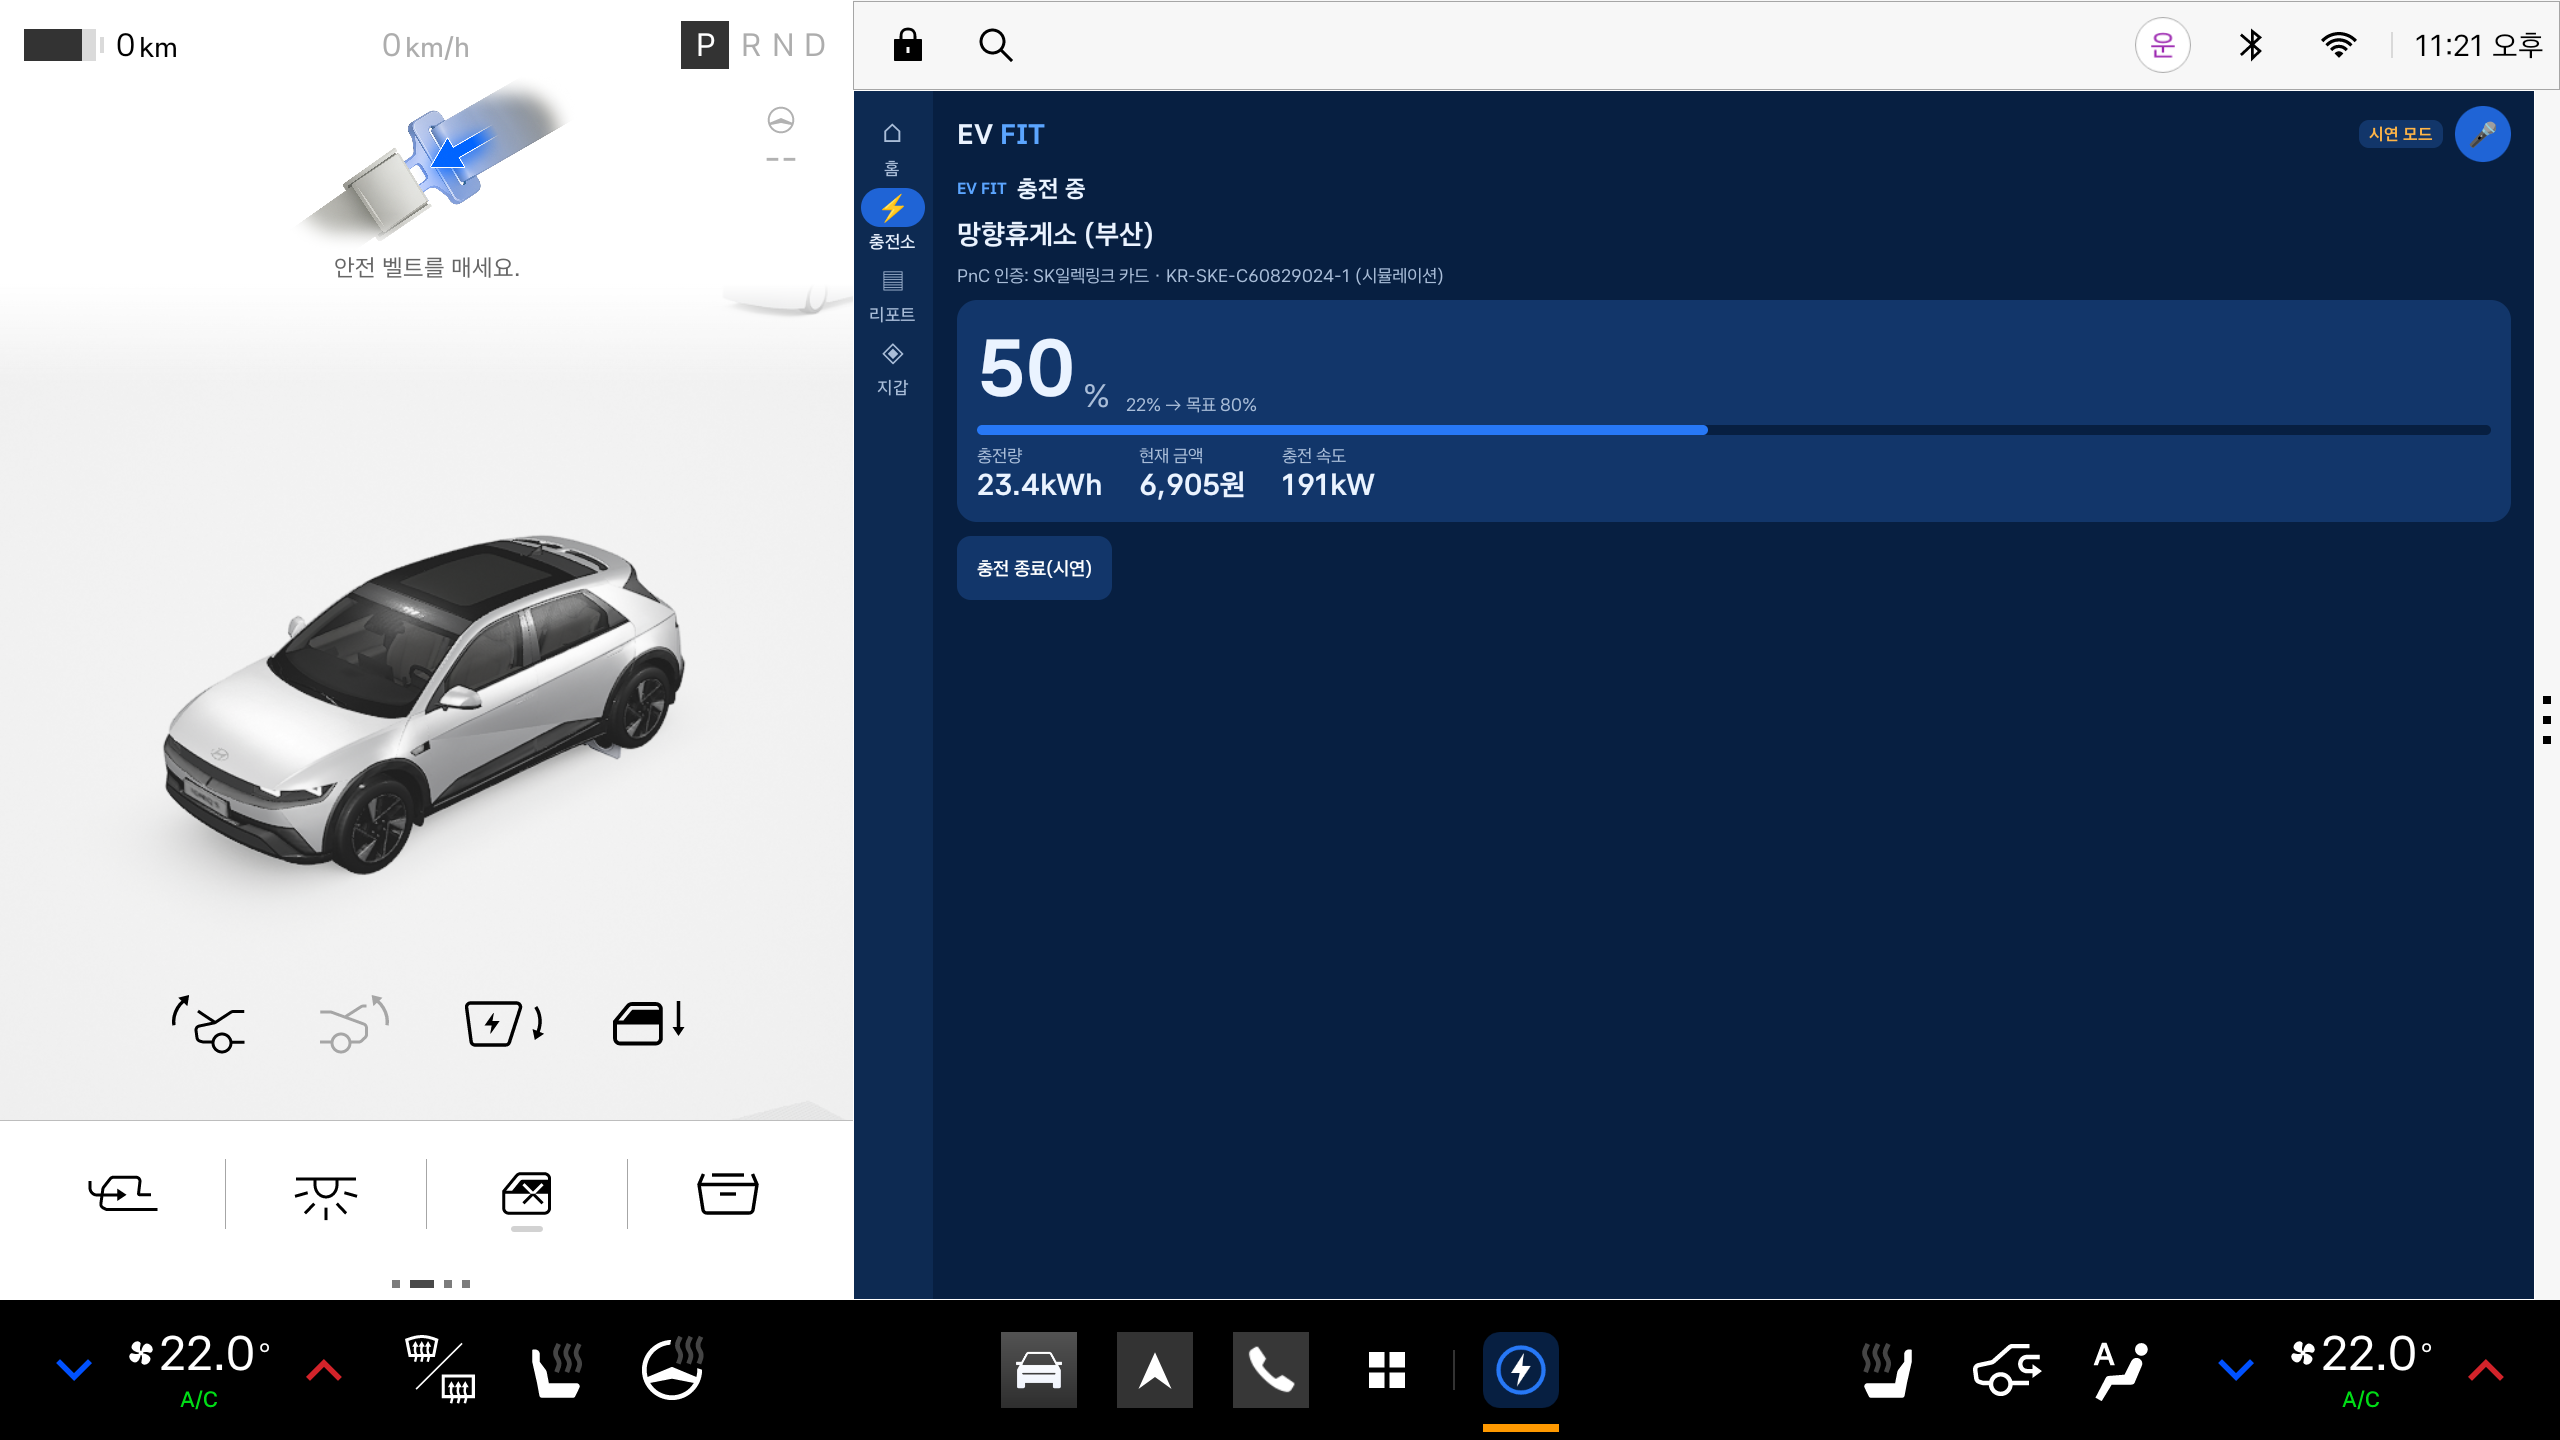
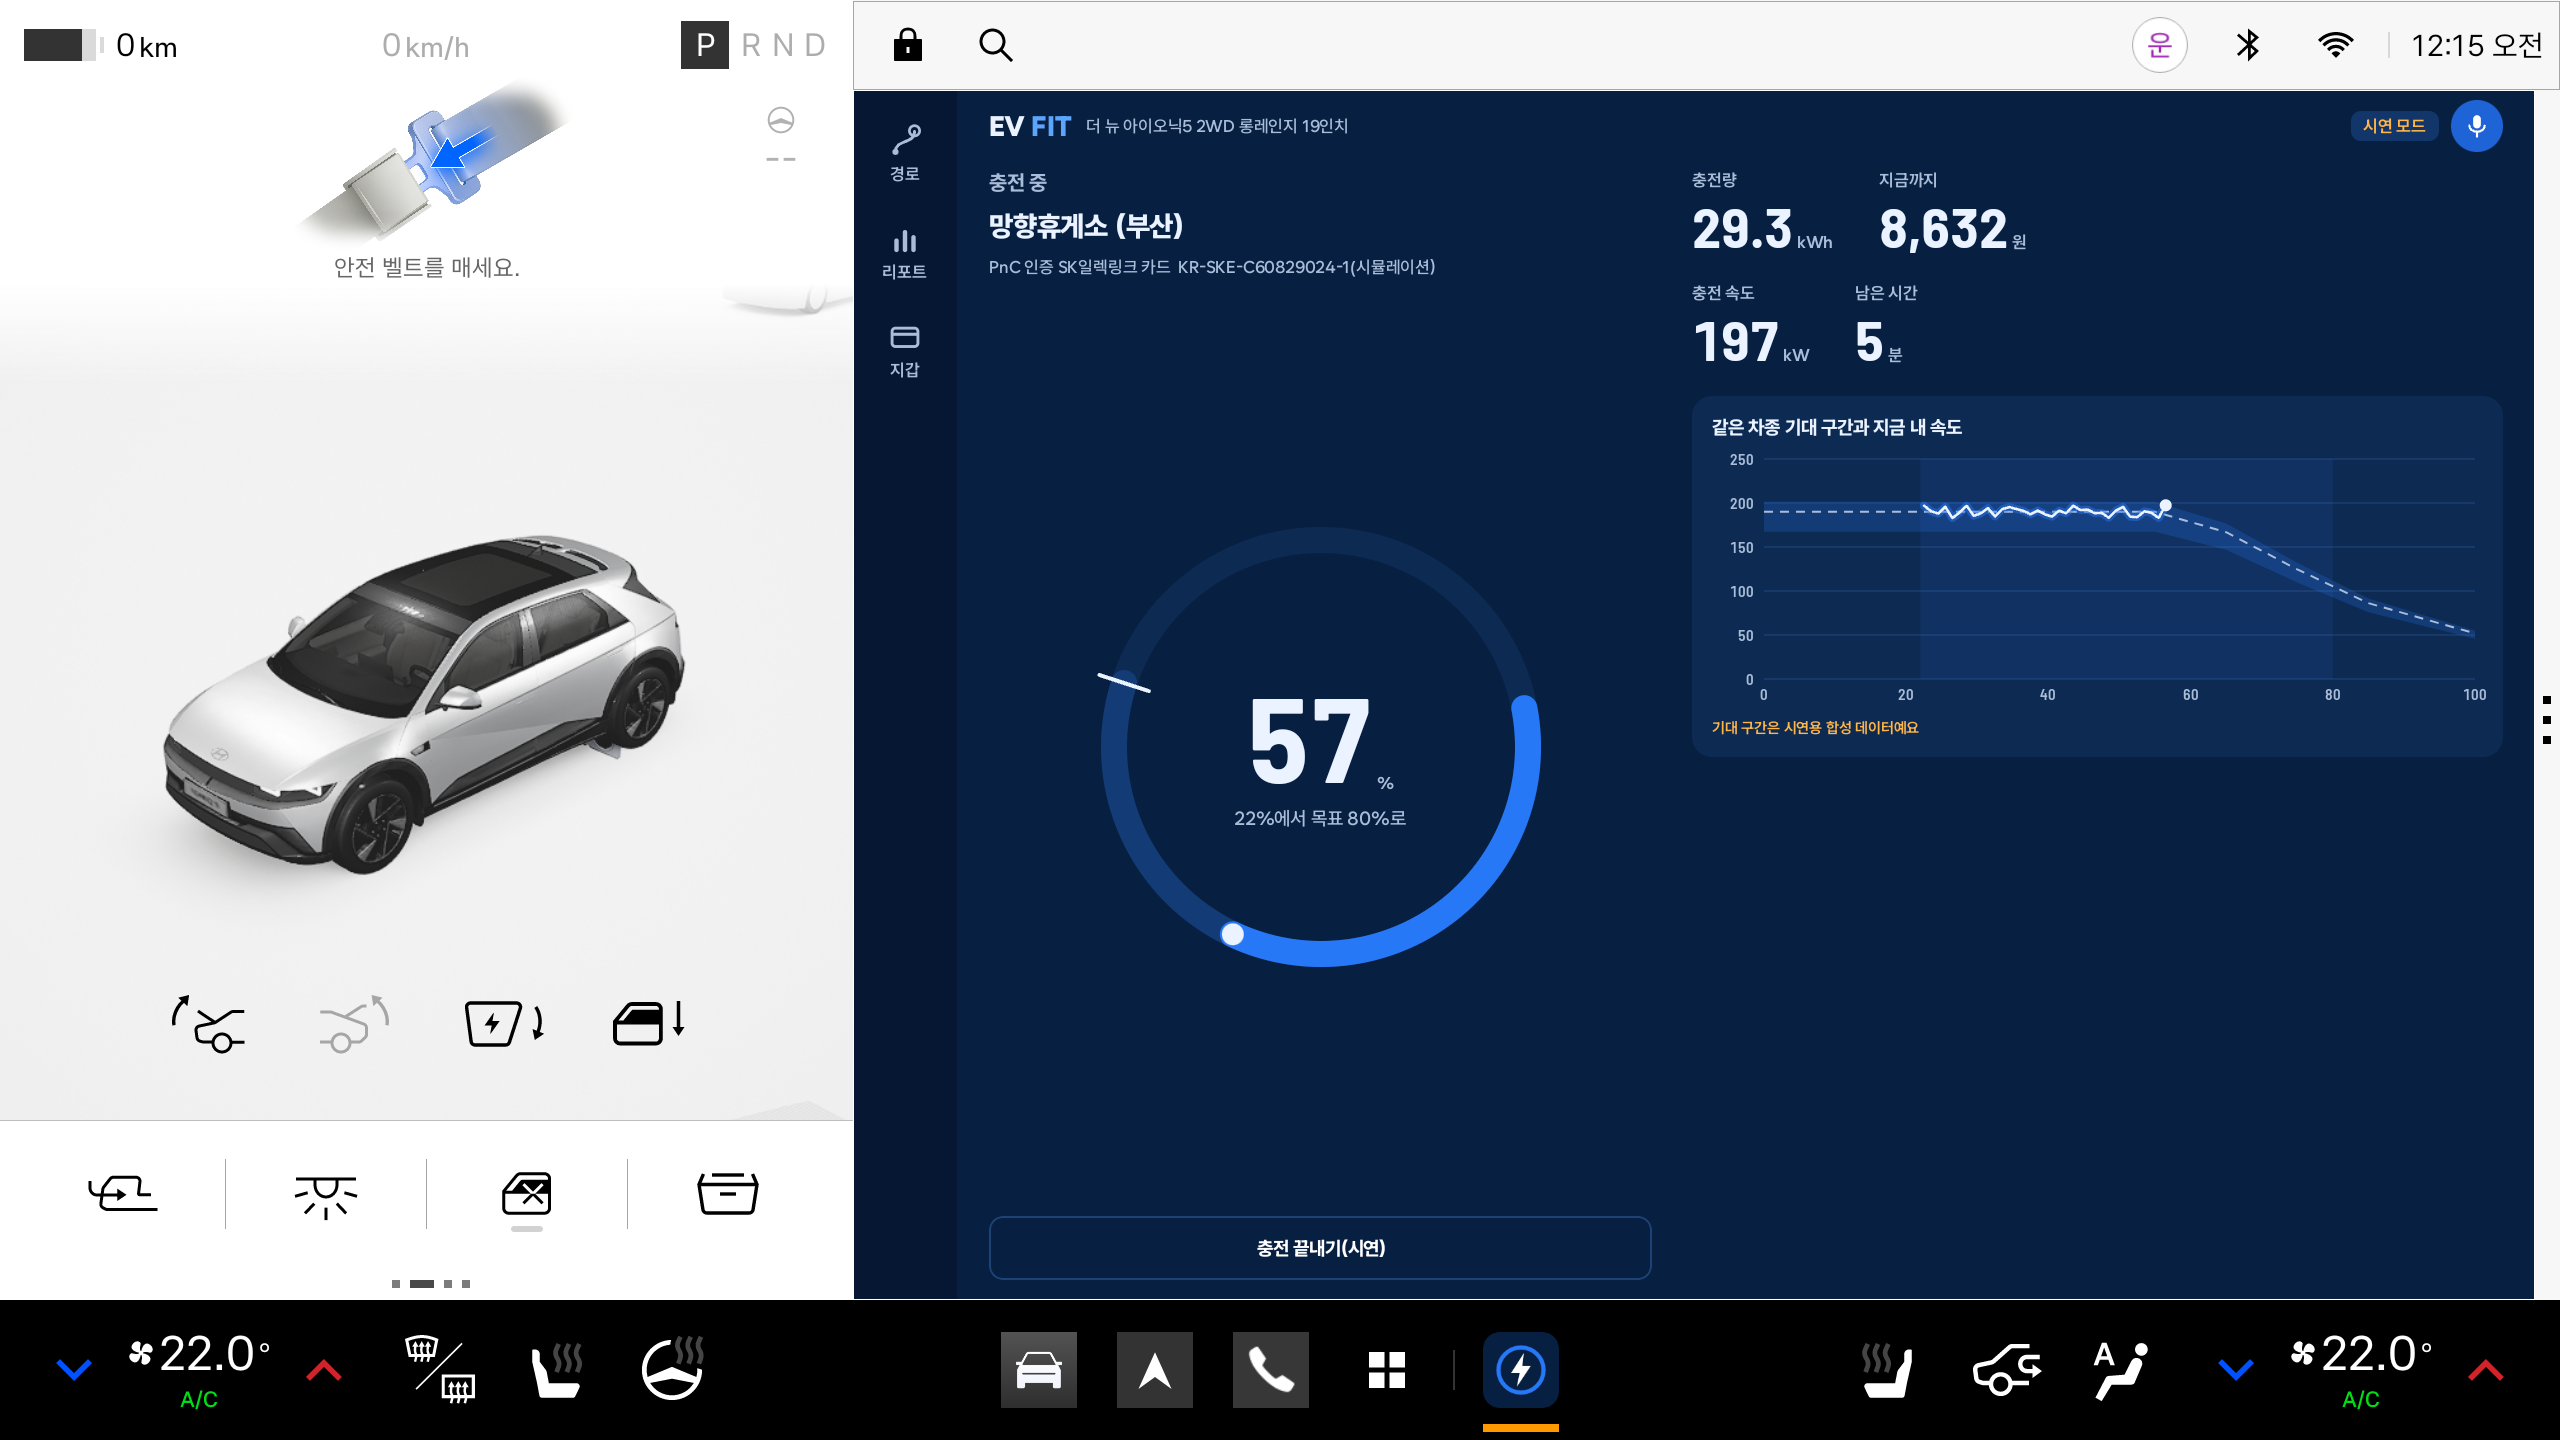
새 화면 캡처 10장과 README·시연 스크립트를 v2 흐름으로 갱신
경로 지도(FIT 추천·경로 우선·최저가)·상세·충전 준비·충전 중·리포트 3종·지갑을 캡처하고,
README에 회랑 추천 설명, 시연 순서, 지도·경로선·글꼴 출처와 추정 공식을 적는다.

diff --git a/README.md b/README.md
@@ -17,20 +17,20 @@
 | 기능 | 내용 |
 |---|---|
 | **FIT Price** | 환경부 공시 요금 매트릭스(회원가·로밍가)와 구독 약정 잔량·고속도로 적용 여부를 반영해 충전소마다 결제 계정별 예상 요금을 계산하고 가장 싼 계정을 고른다 |
-| **FIT Route** | 내비 경로상 충전 정차·목적지 주변·내 주변 급속 충전소를 FIT 점수(요금·시간·신뢰도)로 추천하고, 고른 충전소를 내비 경유지로 넘긴다 |
-| **FIT Insight** | 충전 중 차량 SOC 변화로 잰 내 충전 속도를 동일 차종 기대 구간과 SOC 구간별로 비교하는 리포트, 동일 차량 리포트, 이번 달 기록 |
+| **FIT Route** | 지도에 이번 경로를 회랑으로 그리고, 경로 옆 5km 안 충전소 중 남은 배터리로 닿는 곳을 탭 기준(FIT 추천·경로 우선·최저가·빠른 충전)으로 골라 ①②③으로 표시한다. 진행 방향 휴게소는 우회 0분, 반대 방향 휴게소는 뺀다. 고른 충전소를 내비 경유지로 넘긴다 |
+| **FIT Insight** | 충전 중 차량 SOC 변화로 잰 내 충전 곡선을 같은 차종 기대 구간(SOC×kW) 위에 겹치고, 구간별 차이·평균 속도·걸린 시간·결제 수단별 영수증을 비교하는 리포트, 같은 차종 회원 속도 분포, 이번 달 지출·절약·구독 약정 |
 | 충전 준비 | 도착 전 결제 계정 확정, PnC 계약 전환(시뮬레이션), 충전구 열기, 목표 충전량 설정, 충전 전 확인 안내 |
 | 음성 | 다음 충전·충전 준비·완료 음성 안내, "가장 싼 충전소" 같은 음성 명령 |
 
 ## 화면 (Pleos Connect Emulator v2.1.0, 시연 모드)
 
-| 다음 충전 — 내 결제 계정으로 예상 요금 | 충전소 비교 — FIT 추천 순 |
+| 경로 지도 — FIT 추천 | 경로 우선 탭 — 경로 위 휴게소부터 |
 |---|---|
-| ![다음 충전](docs/screenshots/02_next_stop.png) | ![충전소 비교](docs/screenshots/03_finder.png) |
-| **충전소 상세 — 결제 수단별 요금** | **충전 리포트 — 동일 차종 기대 속도와 비교** |
-| ![충전소 상세](docs/screenshots/04_detail.png) | ![충전 리포트](docs/screenshots/07_report_session.png) |
+| ![FIT 추천](docs/screenshots/01_route_fit.png) | ![경로 우선](docs/screenshots/02_route_onroute.png) |
+| **충전 리포트 — 같은 차종 기대 구간 위 내 충전 곡선** | **충전 중 — SOC 링과 실시간 곡선** |
+| ![충전 리포트](docs/screenshots/07_report_session.png) | ![충전 중](docs/screenshots/06_charging.png) |
 
-전체 9장(홈·충전 준비·충전 중·동일 차량·지갑 포함)은 `docs/screenshots/`에 있습니다. `bash tools/demo_flow.sh`로 같은 흐름을 다시 캡처할 수 있습니다.
+전체 10장(최저가 탭·상세·충전 준비·같은 차종·이번 달·지갑 포함)은 `docs/screenshots/`에 있습니다. `bash tools/demo_flow.sh`로 같은 흐름을 다시 캡처할 수 있습니다.
 
 ## 실행 방법
 
@@ -48,12 +48,12 @@
    adb install -r apk/<APK 파일명>.apk
    adb shell am start -n com.ian.evfit/.MainActivity
    ```
-3. **시연 모드(처음 실행 시 켜져 있음)** — 홈에서 순서대로 누릅니다.
-   1. **[시연 시작]**: 서울 → 정부대전청사 경로, 내비 계획 충전 정차 "망향휴게소 (부산)"
-   2. 다음 충전 카드 확인: SK일렉링크 카드(구독 마스터 295원/kWh)로 예상 14,304원, 환경부 카드 대비 4,757원 절약, 같은 휴게소 SK시그넷 충전기는 환경부 카드만 가능
-   3. **[다른 충전소 비교]**: FIT 추천 순 목록(`✓ 최적 FIT`, 경로 추가 시간, 충전 시간)
-   4. **[도착(시연)]** → 충전 준비(PnC 계약 전환·충전구 열기·목표 80%)
-   5. **[충전 시작(시연)]** → 약 15~25초 재생(실제 약 17분을 60배 압축) 후 리포트 자동 진입
+3. **시연 모드(처음 실행 시 켜져 있음)** — 경로 화면에서 순서대로 누릅니다.
+   1. 지도 오른쪽 위 **[시연 시작]**: 양재 → 정부대전청사 경로(156km)를 주행 중, 40km 지점에서 SOC 30%(주행 가능 92km). 내비 계획 정차는 망향휴게소(부산), 도착 예상 22%
+   2. 탭 **[FIT 추천] [경로 우선] [최저가] [빠른 충전]**: 지도 ①②③과 오른쪽 목록이 기준에 따라 바뀝니다. 금액은 모두 같은 충전량(48.5kWh, 22%→80%) 기준
+   3. **[경로 우선]** 1위 망향휴게소: SK일렉링크 카드(구독 마스터 295원/kWh) 14,304원, 환경부 카드보다 4,757원 적게, 같은 휴게소 SK시그넷 충전기는 환경부 카드만 가능
+   4. **[자세히]** → FIT 점수 근거(요금·시간·신뢰도)와 결제 수단별 금액 → **[충전 준비]**: 차가 경로를 따라 망향휴게소까지 이동한 뒤 준비 화면(PnC 계약 전환·충전구 열기·목표 80%)
+   5. **[충전 시작(시연)]** → 약 20초 재생(실제 약 17분을 60배 압축) 후 리포트 자동 진입
 4. **실차 모드** — 지갑 > 시연 모드 끄기. 차량 상태는 Virtual Console로 바꿉니다.
    ```bash
    adb forward tcp:8088 tcp:8088   # 브라우저에서 http://127.0.0.1:8088/
@@ -97,18 +97,21 @@
 - **동일 차종 충전 통계·성공률·만족도는 시연용 합성 데이터**입니다(공식 제원·실측 통계 아님).
 - **충전사업자 연동과 PnC 계약 전환은 앱 안의 목(mock) 시뮬레이션**입니다. 실제 결제는 하지 않습니다.
 - **FIT 점수** = 후보 충전소끼리 최소-최대 정규화한 요금 50% + 시간 30%(경로 추가 이동 = 거리×2분 추정 + 예상 충전 시간) + 신뢰도 20%(합성 성공률). 가중치와 시간 추정은 시연용 가정입니다.
+- 지도: Natural Earth 10m(퍼블릭 도메인). 시연 경로선: OSRM, © OpenStreetMap contributors(ODbL). 실차 모드는 내비가 경로 좌표를 주지 않아 현재 위치·정차지·목적지를 직선으로 잇는다(추정).
+- 우회 시간 = 경로에서 떨어진 거리×2×1.2분(+고속도로 경로에서 일반 충전소면 나들목 5분), 주행 가능 거리 = (SOC−10%)×배터리×차종 전비. 모두 추정입니다.
+- 글꼴: Wanted Sans, Barlow Semi Condensed(둘 다 SIL OFL 1.1, `app/src/main/assets/licenses/`).
 - EV FIT은 공모전 컨셉 브랜드이며 현대자동차 공식 브랜드 자산이 아닙니다.
 
 ## 프로젝트 구조
 
 ```
 app/src/main/java/com/ian/evfit/
-  engine/    요금 엔진(PriceEngine), FIT 점수, 충전소 랭커, 충전 곡선 — 순수 Kotlin + 단위 테스트
+  engine/    요금 엔진(PriceEngine), FIT 점수, 경로선 투영·회랑 랭커, 주행 가능 거리, 충전 곡선 — 순수 Kotlin + 단위 테스트
   data/      자산(JSON) 파싱, 지갑·기록 저장
   platform/  Pleos Vehicle·NaviHelper·FusedLocation·TTS/STT, AAOS 주행 제한
   cpo/       충전사업자 연동 인터페이스와 목 구현(PnC 계약 전환)
   demo/      시연 시나리오(위치·경로·충전 SOC 흐름)
-  ui/        Compose 화면(홈·충전소·상세·충전 준비·충전 중·리포트·지갑)
-tools/       build.sh(한글 경로 우회 빌드), export_assets.py, make_benchmarks.py, demo_flow.sh(시연 흐름 재생·캡처)
-docs/screenshots/  에뮬레이터 화면 캡처 9장
+  ui/        Compose 화면(경로 지도·패널·상세, 충전 준비·충전 중, 리포트 차트, 지갑)
+tools/       build.sh(한글 경로 우회 빌드), export_assets.py, make_benchmarks.py, make_mapdata.py(지도 자산), demo_flow.sh(시연 흐름 재생·캡처)
+docs/screenshots/  에뮬레이터 화면 캡처 10장
 ```
